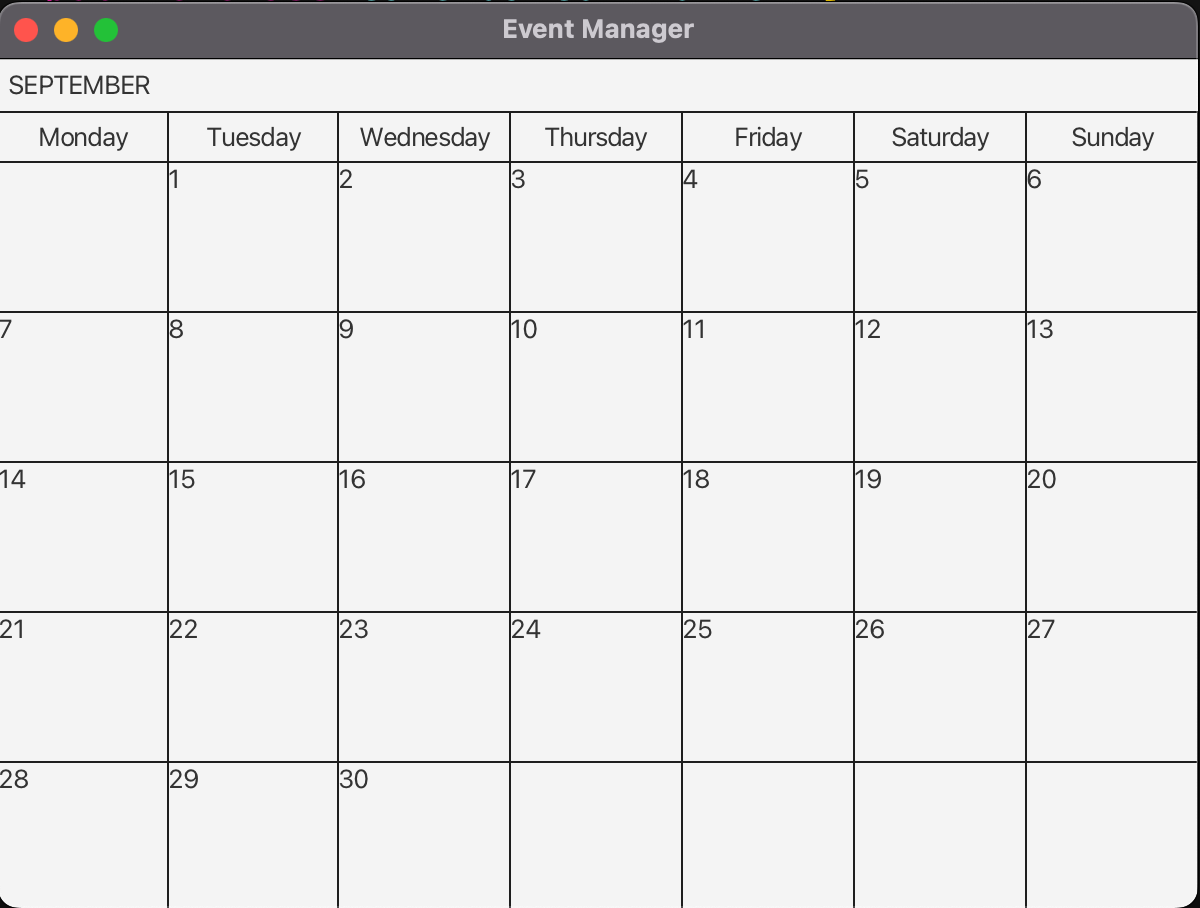
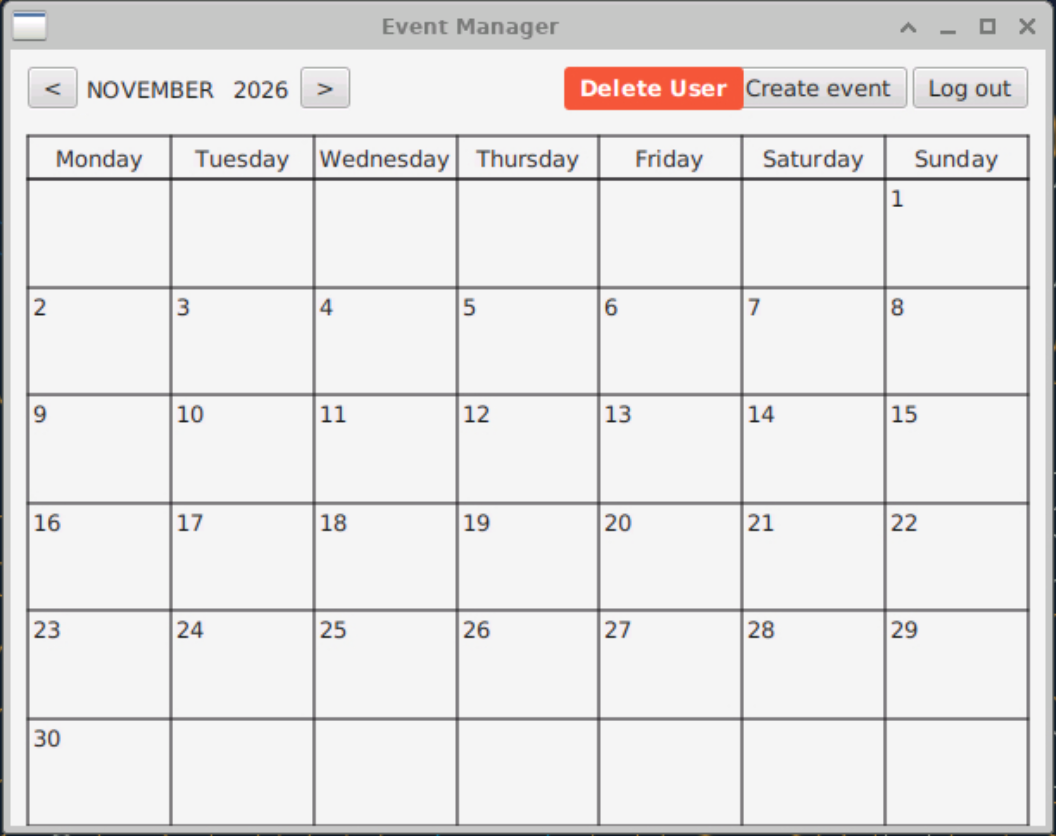
Docs: update eventManager readme

Changed region(s): [[0.0, 0.0, 1.0, 1.0]]

diff --git a/event-manager-fx/README.md b/event-manager-fx/README.md
@@ -34,6 +34,16 @@ The user should be able to register for available events, and this should be per
 
 The user should be able to create an account or log into one they have already created.
 
+### Create multiple events with the same title
+
+> As a user, i want to be able to create multiple events with the same title, for example for reoccuring events.
+[Issue #114](https://git.ntnu.no/IT1901-2026-groups/gr2607/issues/114)
+
+### Administer events
+
+> As someone who hosts events, i don't want random users to be able to delete the events i have created.
+[Issue #107](https://git.ntnu.no/IT1901-2026-groups/gr2607/issues/107)
+
 ### Requirements
 
 - Java 17 or newer
